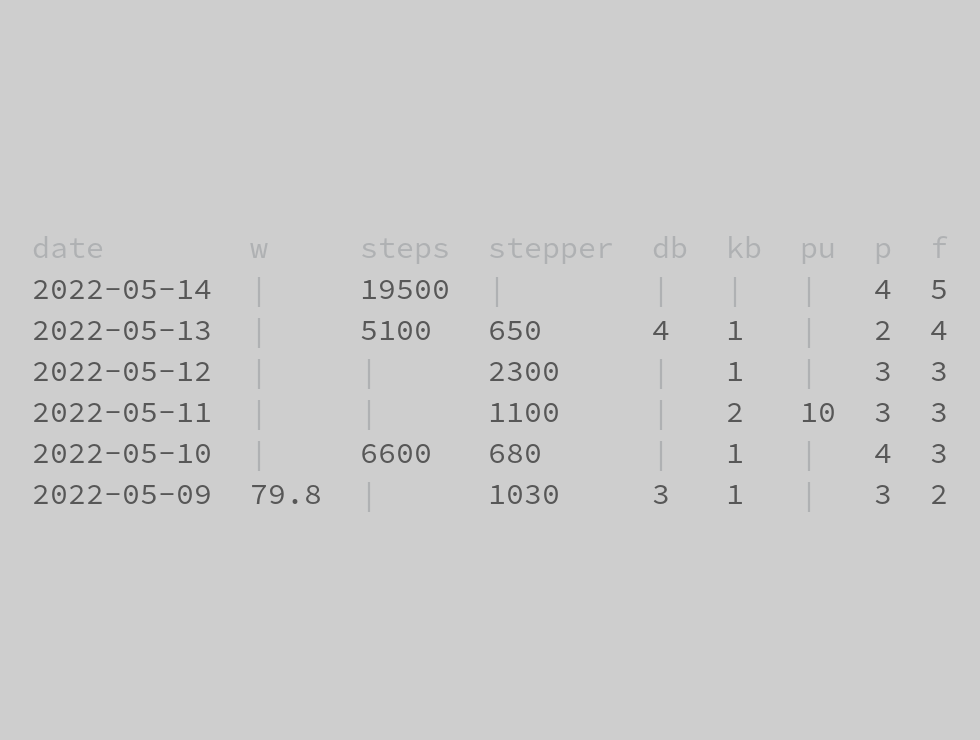
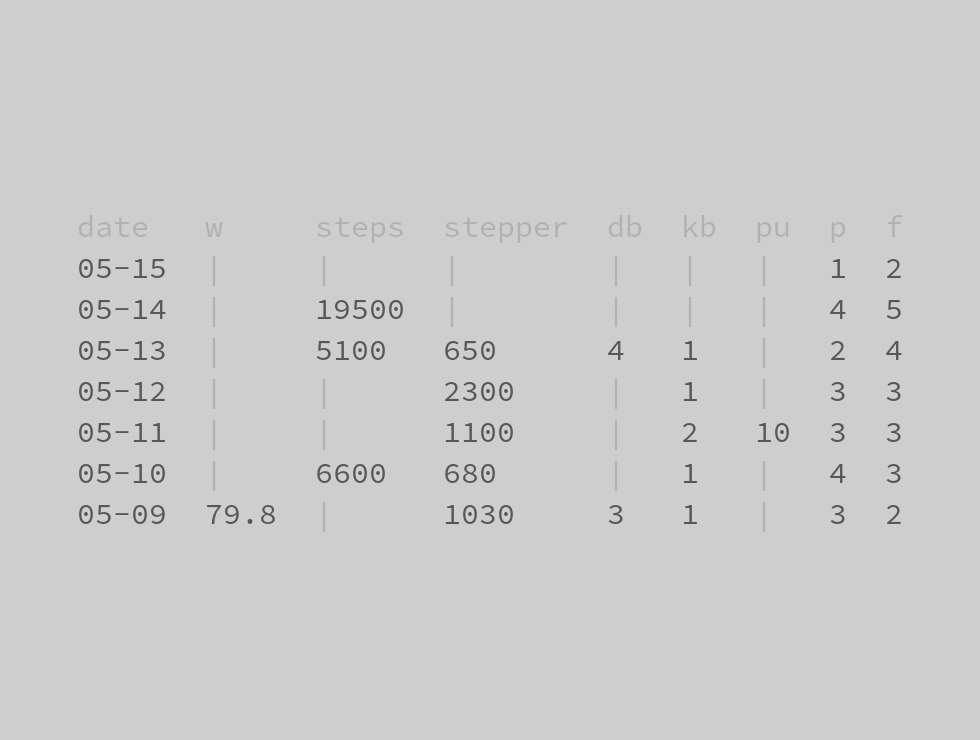
ReportsList: contract date

diff --git a/src/views/ReportsList.vue b/src/views/ReportsList.vue
@@ -12,7 +12,7 @@ table.reports-list
       td.reports-list__head p
       td.reports-list__head f
     tr.reports-list__row(v-for="report in reports" :key="report.id")
-      ReportsListItem(:value="report.date")
+      ReportsListItem(:value="contractDate(report.date)")
       ReportsListItem(:value="report.weight")
       ReportsListItem(:value="report.steps")
       ReportsListItem(:value="report.stepper")
@@ -33,6 +33,11 @@ const reports = ref([])
 async function getReportsList() {
   const backendReports = await reportClient.list()
   reports.value = backendReports
+}
+
+function contractDate(date) {
+  const [_year, month, day] = date.split('-');
+  return `${month}-${day}`
 }
 
 onMounted(async () => { await getReportsList() })
